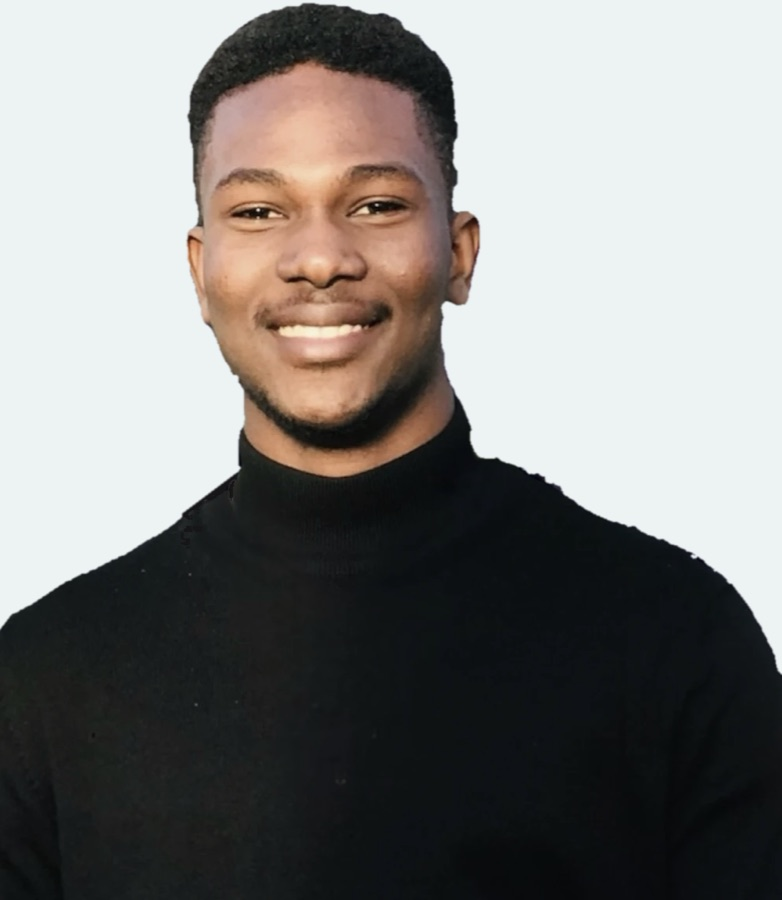
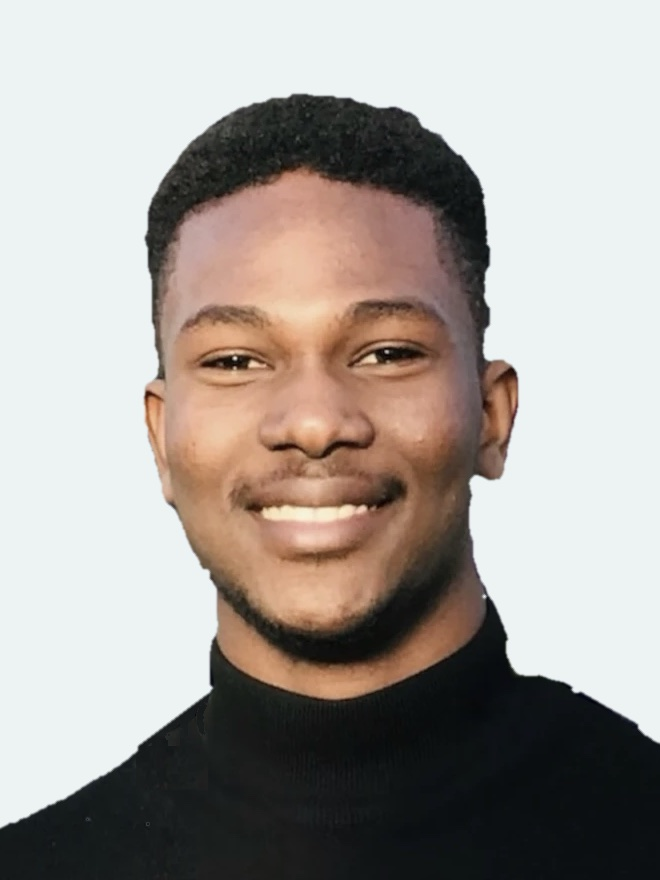
Recadrer le portrait sur la tête et le col
Recadrage serré recommandé : les épaules sortent du cadre,
il reste moins de contour détouré visible. Contour de l'épaule lissé,
zone retouchée comblée avec la texture réelle du pull.

diff --git a/index.html b/index.html
@@ -23,7 +23,7 @@
     <link rel="preconnect" href="https://fonts.googleapis.com" />
     <link rel="preconnect" href="https://fonts.gstatic.com" crossorigin />
     <link href="https://fonts.googleapis.com/css2?family=Figtree:wght@400;500;600;700&amp;family=IBM+Plex+Mono:wght@400;500&amp;display=swap" rel="stylesheet" />
-    <link rel="stylesheet" href="portfolio.css?v=20261004g" />
+    <link rel="stylesheet" href="portfolio.css?v=20261004h" />
     <script data-goatcounter="https://ikel-portfolio.goatcounter.com/count" async src="https://gc.zgo.at/count.js"></script>
   </head>
   <body>
@@ -49,7 +49,7 @@
           <p class="hero-summary">Trois ans chez Generali à construire des pipelines marketing, à travailler sur la migration vers Snowflake et à produire les indicateurs de performance digitale suivis par les équipes métier. Mon dernier projet est une note d’analyse sur 96&nbsp;470 commandes réelles d’Olist, de l’ingestion à la recommandation.</p>
           <div class="hero-actions"><a class="text-button" href="https://ikel0.github.io/comptoir/">Lire la note Comptoir</a><a class="text-button" href="#projets">Voir les projets</a></div>
         </div>
-        <figure class="hero-reference"><img src="media/portrait.jpg" width="782" height="900" alt="Portrait d’Ikel Ouedraogo" /></figure>
+        <figure class="hero-reference"><img src="media/portrait.jpg" width="660" height="880" alt="Portrait d’Ikel Ouedraogo" /></figure>
       </section>
 
       <section class="profile-path shell" id="competences" aria-labelledby="profil-title">

diff --git a/en/index.html b/en/index.html
@@ -23,7 +23,7 @@
     <link rel="preconnect" href="https://fonts.googleapis.com" />
     <link rel="preconnect" href="https://fonts.gstatic.com" crossorigin />
     <link href="https://fonts.googleapis.com/css2?family=Figtree:wght@400;500;600;700&amp;family=IBM+Plex+Mono:wght@400;500&amp;display=swap" rel="stylesheet" />
-    <link rel="stylesheet" href="../portfolio.css?v=20261004g" />
+    <link rel="stylesheet" href="../portfolio.css?v=20261004h" />
     <script data-goatcounter="https://ikel-portfolio.goatcounter.com/count" async src="https://gc.zgo.at/count.js"></script>
   </head>
   <body>
@@ -44,7 +44,7 @@
           <p class="hero-summary">Three years at Generali building marketing pipelines, working on the migration to Snowflake and producing the digital performance metrics used by business teams. My latest project is an analysis memo on 96,470 real Olist orders, from ingestion to recommendation.</p>
           <div class="hero-actions"><a class="text-button" href="https://ikel0.github.io/comptoir/">Read the Comptoir memo</a><a class="text-button" href="#projets">See projects</a></div>
         </div>
-        <figure class="hero-reference"><img src="../media/portrait.jpg" width="782" height="900" alt="Portrait of Ikel Ouedraogo" /></figure>
+        <figure class="hero-reference"><img src="../media/portrait.jpg" width="660" height="880" alt="Portrait of Ikel Ouedraogo" /></figure>
       </section>
 
       <section class="profile-path shell" id="competences" aria-labelledby="profil-title">

diff --git a/portfolio.css b/portfolio.css
@@ -193,7 +193,7 @@ footer { display: flex; align-items: center; justify-content: space-between; gap
 .profile-output { font-size: .85rem; }
 .profile-output strong a { font-family: var(--mono); }
 .hero-reference { border-left: 0; }
-.hero-reference img { min-height: 0; height: auto; aspect-ratio: 782 / 900; object-fit: cover; filter: none; }
+.hero-reference img { min-height: 0; height: auto; aspect-ratio: 660 / 880; object-fit: cover; filter: none; }
 .hero-reference { display: block; align-self: end; justify-self: end; width: 100%; max-width: 360px; min-height: 0; border-bottom: 1px solid var(--ink); }
 .hero-reference img { display: block; width: 100%; }
 @media (max-width: 820px) { .hero-reference { justify-self: start; max-width: 280px; } }
